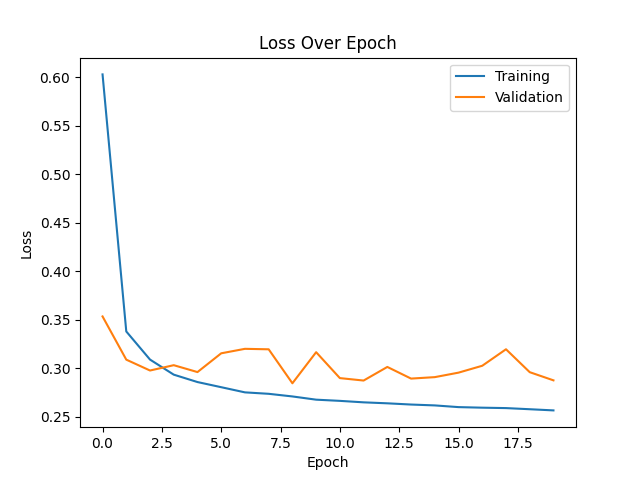
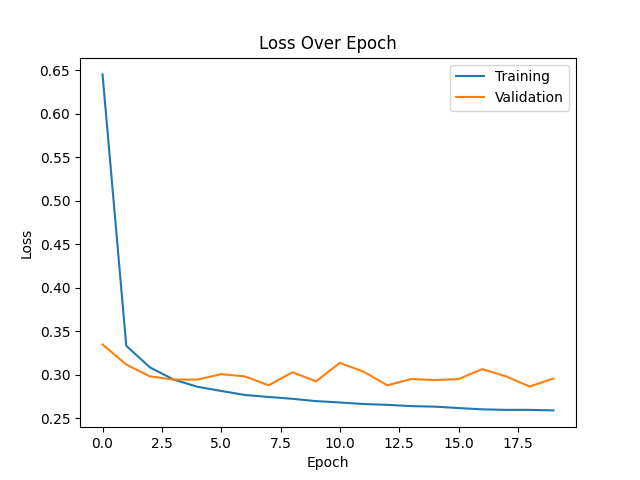
Ex1 PyTorch model1

diff --git a/lab4/lab4_1_pytorch.py b/lab4/lab4_1_pytorch.py
@@ -123,8 +123,8 @@ if __name__ == '__main__':
             loss = criterion(pred, y)
             running_loss += loss.item() / len(test_data_loader)
             running_accuracy += (pred.argmax(1) == y).sum().item() / BATCH_SIZE / len(test_data_loader)
-            y_pred.extend(pred.argmax(1))
-            y_true.extend(y)
+            y_pred.extend(pred.argmax(1).cpu())
+            y_true.extend(y.cpu())
         evaluating_time = time.time() - evaluating_start_time
         print(f'{evaluating_time:.2f}s - loss: {running_loss:.4f} - accuracy: {running_accuracy:.4f}')
 

diff --git a/lab4/README.md b/lab4/README.md
@@ -98,9 +98,9 @@ The CNN model takes two times more time than the lab3.3 best model and provides 
 
 |   ID   |  Loss  | Accuracy | Training Time |
 | :----: | :----: | :------: | :-----------: |
-| model1 | 0.2875 |  91.89%  |    101.84s    |
+| model1 | 0.2957 |  91.67%  |    102.06s    |
 
-**Architecture**
+#### Architecture
 
 - Convolution: 32, 3, 1, 'valid'.
 - Flatten.
